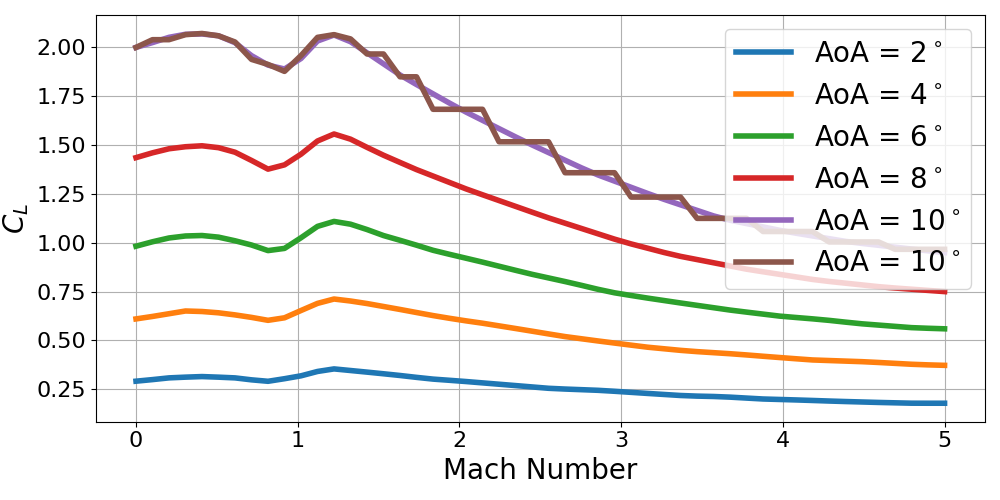
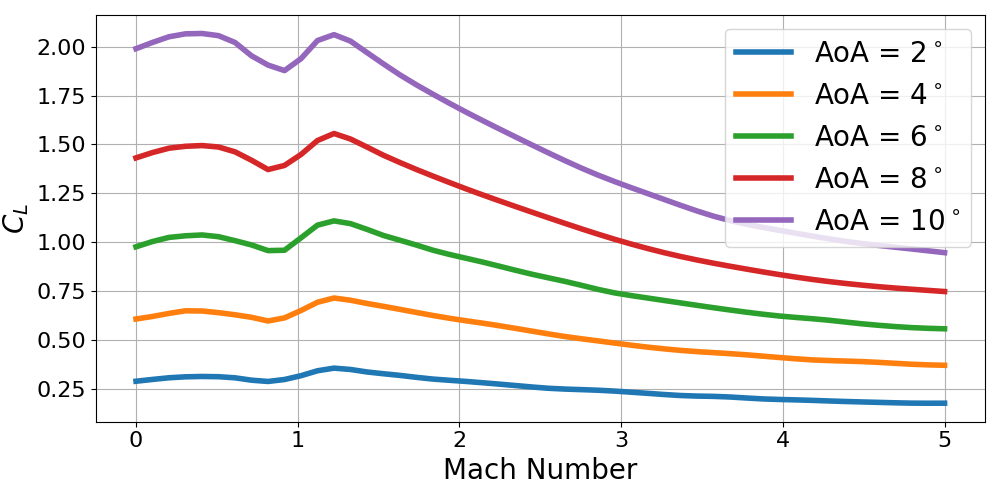
no pitch damping control

diff --git a/test_aerodynamic_stability_descent.py b/test_aerodynamic_stability_descent.py
@@ -1,4 +1,8 @@
+import csv
 import math
+import numpy as np
+import matplotlib.pyplot as plt
+import matplotlib.gridspec as gridspec
 
 from src.envs.utils.aerodynamic_coefficients import rocket_CD_compiler, rocket_CL_compiler
 from src.envs.load_initial_states import load_landing_burn_initial_state
@@ -10,6 +14,205 @@ class AerodynamicStabilityDescent:
         self.x, self.y, self.vx, self.vy, self.theta, self.theta_dot, self.gamma, self.alpha, self.mass, self.mass_propellant, self.time = self.state
         self.CD_func = lambda M, alpha_rad: rocket_CD_compiler()(M, math.degrees(alpha_rad)) # Mach, alpha [deg]
         self.CL_func = lambda M, alpha_rad: rocket_CL_compiler()(M, math.degrees(alpha_rad)) # Mach, alpha [deg]
-        
+        # Read sizing results
+        sizing_results = {}
+        with open('data/rocket_parameters/sizing_results.csv', 'r') as file:
+            reader = csv.reader(file)
+            for row in reader:
+                sizing_results[row[0]] = row[2]
+        self.m_burn_out = float(sizing_results['Structural mass stage 1 (ascent)'])*1000
+        self.T_e = float(sizing_results['Thrust engine stage 1'])
+        self.v_ex = float(sizing_results['Exhaust velocity stage 1'])
+        self.n_e = 6 # select a realistic number of engines
+        self.mdot = self.T_e/self.v_ex * self.n_e
+        self.frontal_area = float(sizing_results['Rocket frontal area'])
+        self.x_cog = 20
+        self.x_cop = 0.25 * float(sizing_results['Stage 1 height '])
+
+        self.dt = 0.1
+        self.inertia = 1e9
+        self.alpha_effective = self.gamma - self.theta - math.pi
+        self.initialise_logging()
+
+    def initialise_logging(self):
+        self.x_log = []
+        self.y_log = []
+        self.vx_log = []
+        self.vy_log = []
+        self.theta_log = []
+        self.theta_dot_log = []
+        self.gamma_log = []
+        self.alpha_effective_log = []
+        self.aero_x_log = []
+        self.aero_y_log = []
+        self.aero_moments_z_log = []
+        self.lift_log = []
+        self.drag_log = []
+        self.alpha_log = []
+        self.mass_log = []
+        self.mass_propellant_log = []
+        self.time_log = []
+        self.mach_number_log = []
+        self.dynamic_pressure_log = []
+        self.CL_log = []
+        self.CD_log = []
+
+    def log_data(self):
+        self.x_log.append(self.x)
+        self.y_log.append(self.y)
+        self.vx_log.append(self.vx)
+        self.vy_log.append(self.vy)
+        self.theta_log.append(self.theta)
+        self.theta_dot_log.append(self.theta_dot)
+        self.gamma_log.append(self.gamma)
+        self.alpha_effective_log.append(self.alpha_effective)
+        self.aero_x_log.append(self.aero_x)
+        self.aero_y_log.append(self.aero_y)
+        self.aero_moments_z_log.append(self.aero_moments_z)
+        self.lift_log.append(self.lift)
+        self.drag_log.append(self.drag)
+        self.alpha_log.append(self.alpha)
+        self.mass_log.append(self.mass)
+        self.mass_propellant_log.append(self.mass_propellant)
+        self.time_log.append(self.time)
+        self.dynamic_pressure_log.append(self.dynamic_pressure)    
+        self.CL_log.append(self.C_L)
+        self.CD_log.append(self.C_D)  
+        self.mach_number_log.append(self.mach_number)  
 
     def step(self):
+        self.alpha_effective = (self.theta + math.pi) - self.gamma
+        density, atmospheric_pressure, speed_of_sound = endo_atmospheric_model(self.y)
+        speed = math.sqrt(self.vx**2 + self.vy**2)
+        self.dynamic_pressure = 0.5 * density * speed**2
+        if speed_of_sound != 0.0:
+            self.mach_number = speed/speed_of_sound
+            self.C_L = self.CL_func(self.mach_number, self.alpha_effective) # Mach, alpha [rad]
+            self.C_D = self.CD_func(self.mach_number, self.alpha_effective) # Mach, alpha [rad]
+        else:
+            self.mach_number = 0.0
+            self.C_L = 0.0
+            self.C_D = 0.0
+        self.drag = self.dynamic_pressure * self.C_D * self.frontal_area
+        self.lift = self.dynamic_pressure * self.C_L * self.frontal_area
+
+        aero_force_parallel = self.drag * math.cos(self.alpha_effective) + self.lift * math.sin(self.alpha_effective)
+        aero_force_perpendicular = self.drag * math.sin(self.alpha_effective) - self.lift * math.cos(self.alpha_effective)
+        d_cp_cg = self.x_cog - self.x_cop
+        self.aero_x = aero_force_parallel * math.cos(self.theta) + aero_force_perpendicular * math.sin(self.theta)
+        self.aero_y = aero_force_parallel * math.sin(self.theta) - aero_force_perpendicular * math.cos(self.theta)
+        self.aero_moments_z = aero_force_perpendicular * d_cp_cg
+
+        # Thrust
+        T_parallel = self.T_e * self.n_e
+        T_x = T_parallel * math.cos(self.theta)
+        T_y = T_parallel * math.sin(self.theta)
+        
+        # Acceleration linear
+        a_x = (self.aero_x + T_x)/self.mass
+        a_y = (self.aero_y + T_y)/self.mass
+
+        # Velocity update
+        self.vx += a_x * self.dt
+        self.vy += a_y * self.dt
+
+        # Position update
+        self.x += self.vx * self.dt
+        self.y += self.vy * self.dt
+
+        # Moments update
+        theta_dot_dot = self.aero_moments_z / self.inertia
+        self.theta_dot += theta_dot_dot * self.dt
+        self.theta += self.theta_dot * self.dt
+        self.gamma = math.atan2(self.vy, self.vx)
+
+        if self.theta > 2 * math.pi:
+            self.theta -= 2 * math.pi
+        if self.gamma < 0:
+            self.gamma = 2 * math.pi + self.gamma
+
+        self.alpha = self.theta - self.gamma
+        
+        # Mass update
+        self.mass -= self.mdot * self.dt
+        self.mass_propellant -= self.mdot * self.dt
+
+        # Time update
+        self.time += self.dt
+
+    def run_closed_loop(self):
+        while self.mass_propellant > 0.0 and self.y > 0.0 and abs(self.alpha_effective) < math.radians(30):
+            self.step()
+            self.log_data()
+
+    def plot_results(self):
+        self.pitch_down_deg = np.rad2deg(np.array(self.theta_log)) + 180
+        plt.figure(figsize=(20,15))
+        plt.suptitle('Aerodynamic Stability Descent : No pitch damping', fontsize=16)
+        # 3 x 3 plot
+        # alpha effective   | Mach      | Dynamic Pressure
+        # Lift              | Drag      | Moment
+        # Pitch (down), FPA | Pitch Rate| CL and CD
+        gs = gridspec.GridSpec(3, 3, height_ratios=[1, 1, 1], width_ratios=[1, 1, 1], hspace=0.3, wspace=0.3)
+        ax1 = plt.subplot(gs[0, 0])
+        ax1.plot(self.time_log, np.rad2deg(np.array(self.alpha_effective_log)), linewidth=2, color='blue')
+        ax1.set_ylabel(r'$\alpha_{eff}$ [$^{\circ}$]', fontsize=14)
+        ax1.grid(True)
+        
+        ax2 = plt.subplot(gs[0, 1])
+        ax2.plot(self.time_log, np.array(self.mach_number_log), linewidth=2, color='blue')
+        ax2.set_ylabel(r'$M$', fontsize=14)
+        ax2.grid(True)
+
+        ax3 = plt.subplot(gs[0, 2])
+        ax3.plot(self.time_log, np.array(self.dynamic_pressure_log)/1e3, linewidth=2, color='blue')
+        ax3.set_ylabel(r'$q$ [kPa]', fontsize=14)
+        ax3.grid(True)
+
+        ax4 = plt.subplot(gs[1, 0])
+        ax4.plot(self.time_log, np.array(self.lift_log)/1e3, linewidth=2, color='blue')
+        ax4.set_ylabel(r'$L$ [kN]', fontsize=14)
+        ax4.grid(True)
+
+        ax5 = plt.subplot(gs[1, 1])
+        ax5.plot(self.time_log, np.array(self.drag_log)/1e3, linewidth=2, color='blue')
+        ax5.set_ylabel(r'$D$ [kN]', fontsize=14)
+        ax5.grid(True)
+
+        ax6 = plt.subplot(gs[1, 2])
+        ax6.plot(self.time_log, np.array(self.aero_moments_z_log)/1e3, linewidth=2, color='blue')
+        ax6.set_ylabel(r'$M_z$ [kNm]', fontsize=14)
+        ax6.grid(True)
+
+        ax7 = plt.subplot(gs[2, 0])
+        ax7.plot(self.time_log, np.array(self.pitch_down_deg), linewidth=2, color='blue', label='Pitch Down')
+        ax7.plot(self.time_log, np.rad2deg(np.array(self.gamma_log)), linewidth=2, color='red', label='Flight Path Angle')
+        ax7.set_ylabel(r'Angle [$^{\circ}$]', fontsize=14)
+        ax7.set_xlabel(r'Time [s]', fontsize=14)
+        ax7.grid(True)
+        ax7.legend()
+
+        ax8 = plt.subplot(gs[2, 1])
+        ax8.plot(self.time_log, np.rad2deg(np.array(self.theta_dot_log)), linewidth=2, color='blue', label='Pitch Rate')
+        ax8.set_ylabel(r'$\dot{\theta}$ [$^{\circ}$/s]', fontsize=14)
+        ax8.set_xlabel(r'Time [s]', fontsize=14)
+        ax8.grid(True)
+        ax8.legend()
+
+        ax9 = plt.subplot(gs[2, 2])
+        ax9.plot(self.time_log, np.array(self.CL_log), linewidth=2, color='blue', label='CL')
+        ax9.plot(self.time_log, np.array(self.CD_log), linewidth=2, color='red', label='CD')
+        ax9.set_ylabel(r'Coefficient', fontsize=14)
+        ax9.set_xlabel(r'Time [s]', fontsize=14)
+        ax9.grid(True)
+        ax9.legend()
+
+        plt.show()
+
+
+if __name__ == '__main__':
+    test_aerodynamic_stability_descent = AerodynamicStabilityDescent()
+    test_aerodynamic_stability_descent.run_closed_loop()
+    test_aerodynamic_stability_descent.plot_results()
+
+        

diff --git a/src/envs/utils/aerodynamic_coefficients.py b/src/envs/utils/aerodynamic_coefficients.py
@@ -3,6 +3,7 @@ import numpy as np
 import matplotlib.pyplot as plt
 from scipy.interpolate import LinearNDInterpolator
 from scipy.interpolate import NearestNDInterpolator
+from scipy.interpolate import RBFInterpolator
 
 def load_coefficient_data(filename, coef_type="drag"):
     with open(filename, 'r') as f:
@@ -55,19 +56,12 @@ def load_lift_data(filename='data/rocket_parameters/V2_aerodynamics/V2_lift_coef
 
 def create_coefficient_interpolator(mach, aoa, coef):
     points = np.column_stack((mach, aoa))
-    interp = LinearNDInterpolator(points, coef)
-    
-    # Create fallback interpolator for extrapolation using nearest neighbor
-    fallback = NearestNDInterpolator(points, coef)
+    # Using RBFInterpolator with a thin plate spline kernel for smooth interpolation
+    interp = RBFInterpolator(points, coef, kernel='thin_plate_spline', neighbors=50)
     
     def interpolate_coef(mach_val, aoa_val): # Mach, alpha [deg]
         pts = np.array([[mach_val, aoa_val]])
         result = interp(pts)
-        
-        # If the result is NaN (outside convex hull), use nearest neighbor
-        if np.isnan(result[0]):
-            result[0] = fallback(pts)[0]
-            
         return float(result[0])
     
     return interpolate_coef
@@ -114,14 +108,14 @@ def rocket_CD_compiler():
     mach, aoa, cd, aoa_values = load_drag_data()
     cd_interp = create_cd_interpolator(mach, aoa, cd)
     def fun(mach, aoa):
-        return cd_interp(mach, abs(math.degrees(aoa)))
+        return cd_interp(mach, math.degrees(aoa))
     return fun
 
 def rocket_CL_compiler():
     mach, aoa, cl, aoa_values = load_lift_data()
     cl_interp = create_cl_interpolator(mach, aoa, cl)
     def fun(mach, aoa_radians): 
-        return cl_interp(mach, abs(math.degrees(aoa_radians)))
+        return cl_interp(mach, math.degrees(aoa_radians))
     return fun
 
 if __name__ == "__main__":
